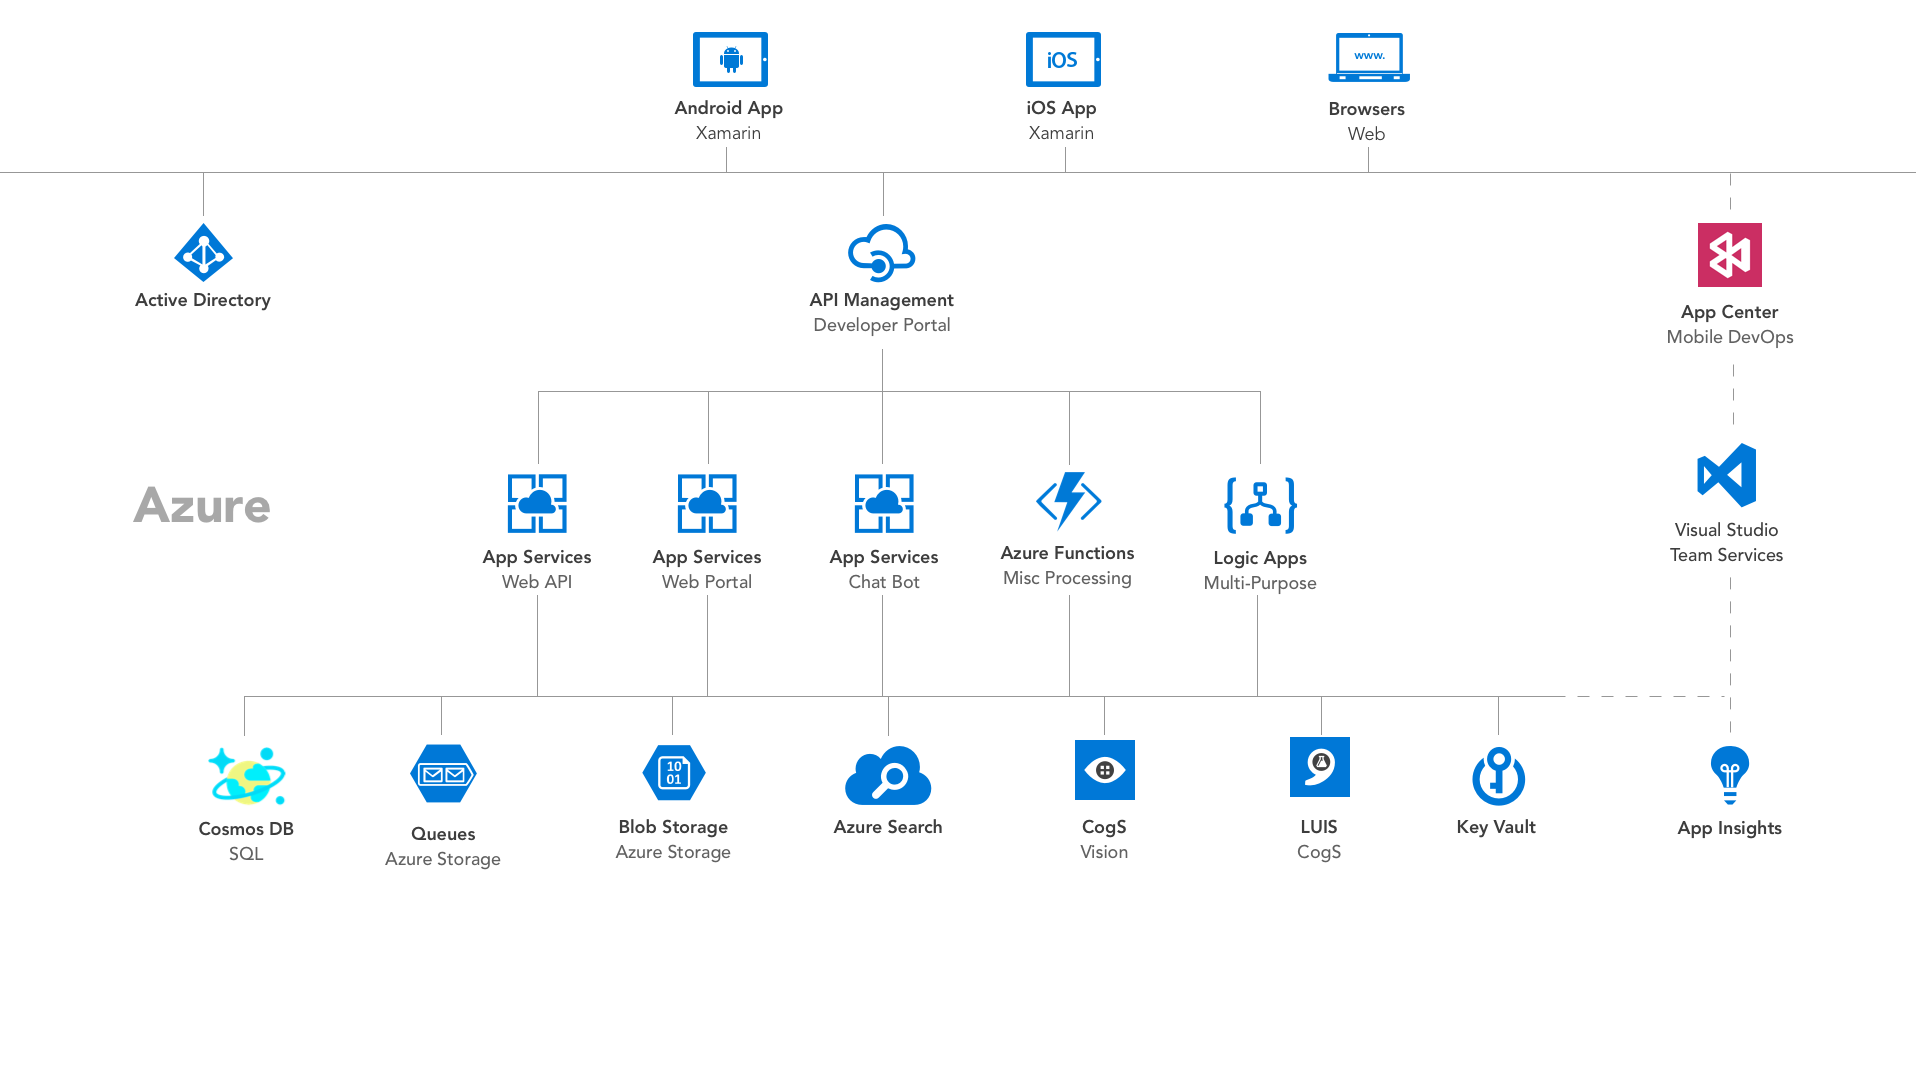
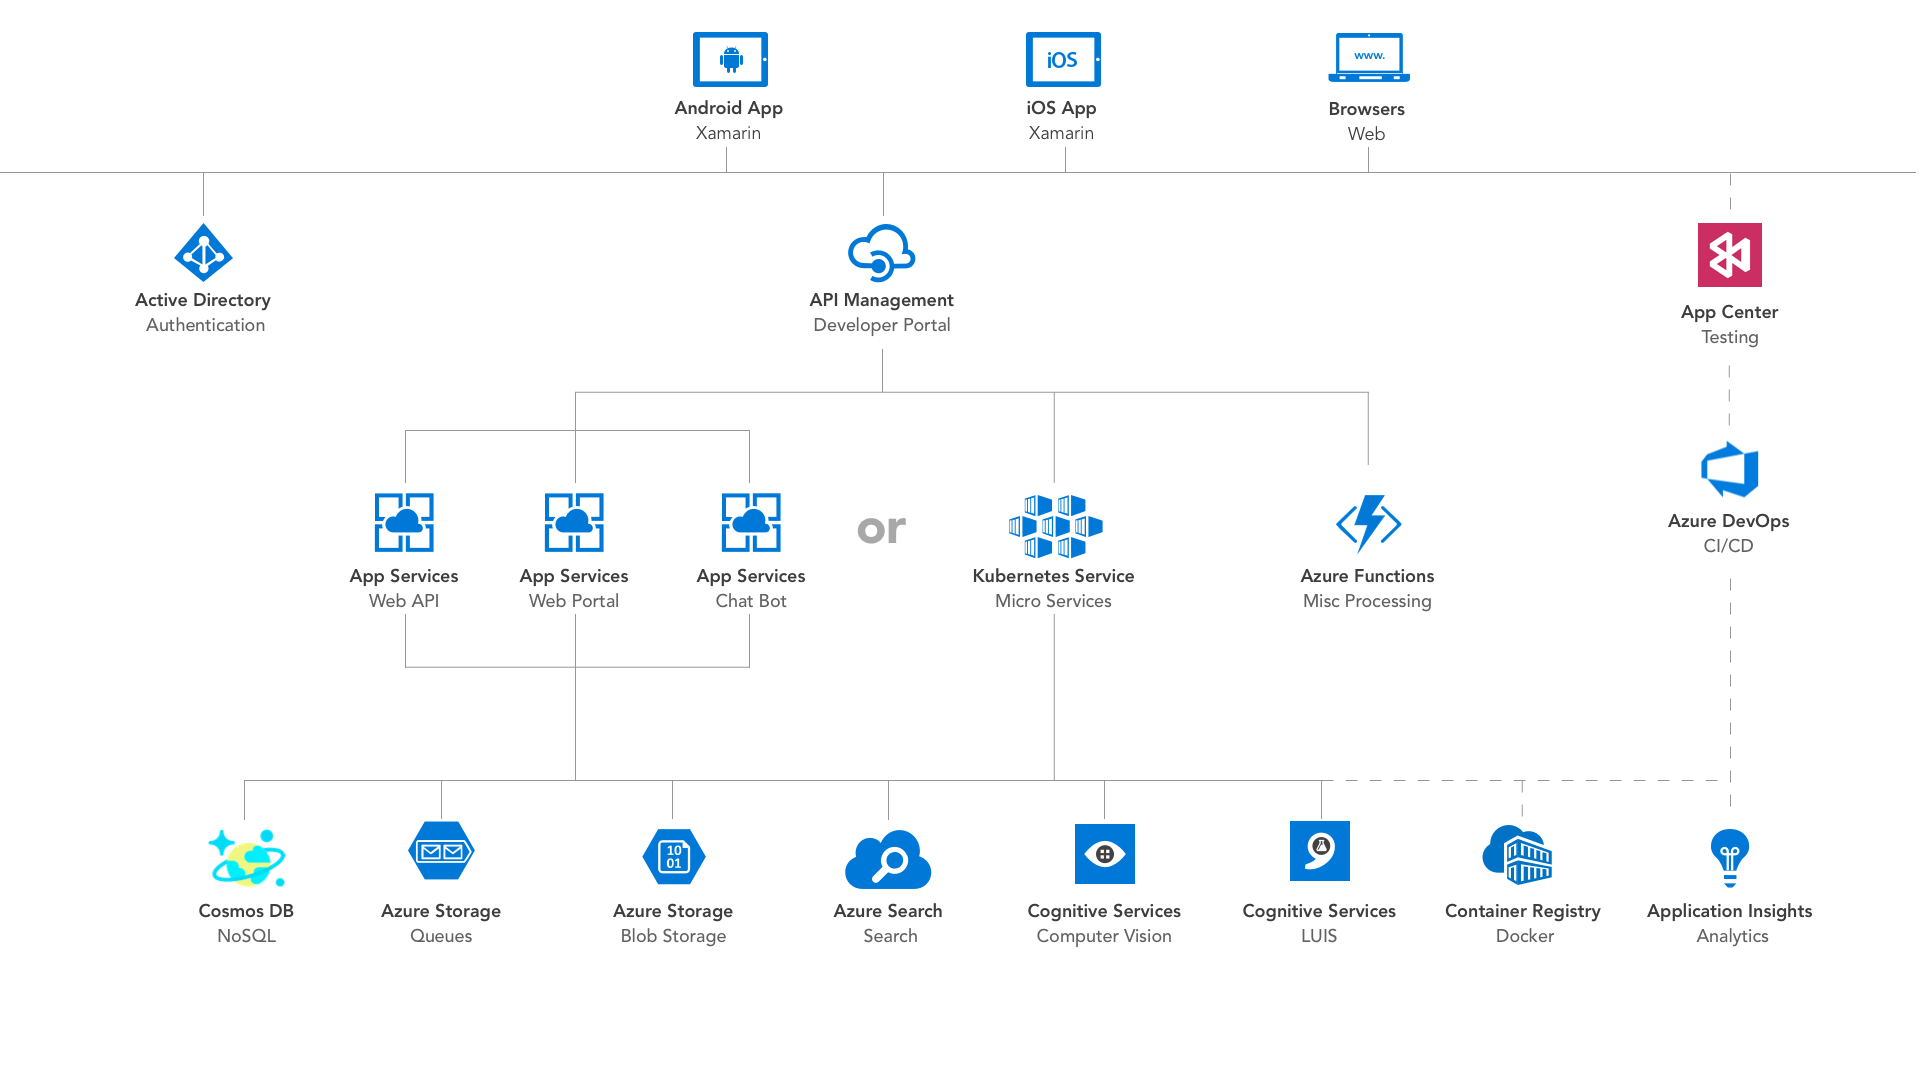
Update Docs and Architecture

diff --git a/README.md b/README.md
@@ -19,7 +19,7 @@ Although you can go and explore the content and walkthrough by yourself, the ric
 <table>
   <tr>
     <td nowrap><a href="https://azure.microsoft.com/en-us/services/app-service/">App Service</a></td>
-    <td rowspan="11"><img src="Resources/Architecture.png"></td>
+    <td rowspan="12"><img src="Resources/Architecture.png"></td>
   </tr>
   <tr>
     <td nowrap><a href="https://azure.microsoft.com/en-us/services/cosmos-db/">Cosmos DB</a></td>
@@ -41,6 +41,9 @@ Although you can go and explore the content and walkthrough by yourself, the ric
   </tr>
   <tr>
     <td nowrap><a href="https://azure.microsoft.com/en-us/services/bot-service/">Bot Service</a></td>
+  </tr>
+  <tr>
+    <td nowrap><a href="https://dev.azure.com/">Azure DevOps</a></td>
   </tr>
   <tr>
     <td nowrap><a href="https://appcenter.ms/">App Center</a></td>

diff --git a/Walkthrough Guide/03 Web API/README.md b/Walkthrough Guide/03 Web API/README.md
@@ -33,6 +33,17 @@ And voilà, we are done. Now we can start to add services to our newly created R
 
 Container Registry...
 
+<details><summary>stuff with *mark* **down**</summary><p>
+
+## _formatted_ **heading** with [a](link)
+
+---
+{{standard 3-backtick code block omitted from here due to escaping issues}}
+---
+
+Collapsible until here.
+</p></details>
+
 ## 3. Create the compute layer with App Services or Container Orchestrators
 
 When it comes to the compute layer of our backend architecture, we have a bunch of options.
